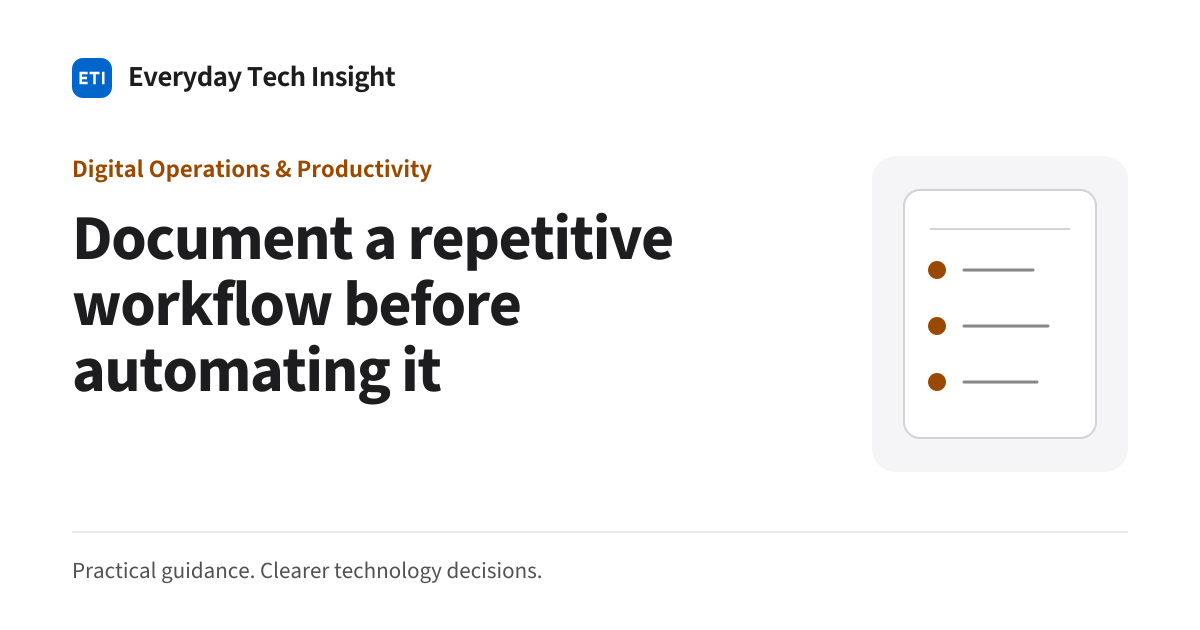
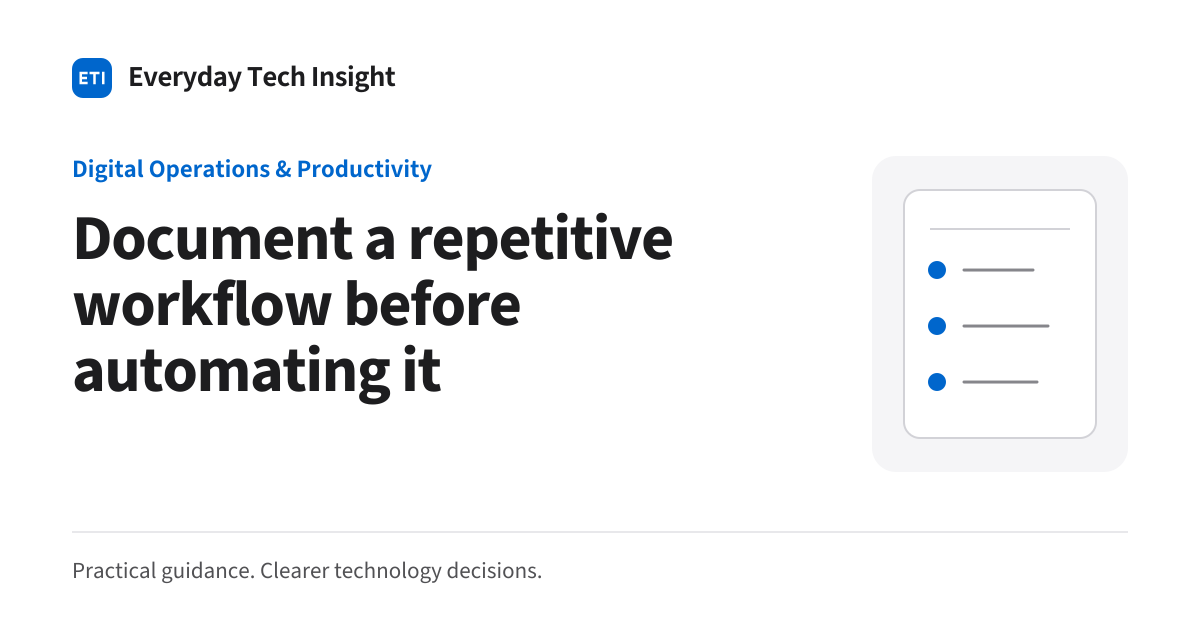
style: retire multicolor category and sharing palette

diff --git a/tests/unit/apple-palette.test.ts b/tests/unit/apple-palette.test.ts
@@ -1,0 +1,38 @@
+import { readFileSync } from "node:fs";
+import { join } from "node:path";
+
+import { describe, expect, it } from "vitest";
+
+import { SOCIAL_IMAGE_RECORDS } from "../../scripts/generate-social-images.mjs";
+import { categories, categoryAccents } from "../../src/data/categories";
+
+describe("Apple editorial palette parity", () => {
+  it("keeps all five named topics without retired category colors", () => {
+    expect(categories).toHaveLength(5);
+    expect(new Set(categories.map(({ slug }) => slug)).size).toBe(5);
+    expect(Object.values(categoryAccents)).toEqual(Array(5).fill("#0066cc"));
+    for (const category of categories) {
+      expect(category.accent).toBe("#0066cc");
+      expect(category.name.length).toBeGreaterThan(5);
+      expect(category.description.length).toBeGreaterThan(30);
+    }
+  });
+
+  it("uses the same blue family in every generated sharing preview", () => {
+    expect(SOCIAL_IMAGE_RECORDS.length).toBeGreaterThanOrEqual(6);
+    for (const record of SOCIAL_IMAGE_RECORDS) {
+      expect(record.accent, record.fileName).toBe("#0066cc");
+    }
+  });
+
+  it("removes retired decorative hues from the active token source", () => {
+    const css = readFileSync(
+      join(process.cwd(), "src/styles/global.css"),
+      "utf8",
+    );
+    expect(css).toMatch(/--brand-visited:\s*#004080;/);
+    for (const hue of ["#6e3cbc", "#216e4e", "#9a4a00", "#4141a5", "#663b80"]) {
+      expect(css.toLowerCase()).not.toContain(hue);
+    }
+  });
+});

diff --git a/src/styles/global.css b/src/styles/global.css
@@ -22,7 +22,7 @@
   --brand-violet-dark: #0055aa;
   --brand-violet-light: #9ac8ff;
   --brand-lavender: #d7eaff;
-  --brand-visited: #663b80;
+  --brand-visited: #004080;
   --brand-magenta: #0066cc;
   --brand-pink: #0066cc;
   --brand-rule-light: #d2d2d7;
@@ -35,11 +35,11 @@
   --brand-error: #b42318;
   --brand-success: #166534;
   --brand-accent: #0066cc;
-  --category-ai: #6e3cbc;
+  --category-ai: #0066cc;
   --category-software: #0066cc;
-  --category-security: #216e4e;
-  --category-operations: #9a4a00;
-  --category-strategy: #4141a5;
+  --category-security: #0066cc;
+  --category-operations: #0066cc;
+  --category-strategy: #0066cc;
   --color-ink: var(--brand-ink);
   --color-soft-ink: var(--brand-text-muted-light);
   --color-canvas: var(--brand-paper);

diff --git a/tests/unit/editorial.test.ts b/tests/unit/editorial.test.ts
@@ -182,11 +182,11 @@ describe("homepage Toolkit selection", () => {
 describe("category accents", () => {
   it("uses one exact accent registry for every category record", () => {
     expect(categoryAccents).toEqual({
-      "ai-automation": "#6e3cbc",
+      "ai-automation": "#0066cc",
       "business-software": "#0066cc",
-      "cybersecurity-data-protection": "#216e4e",
-      "digital-operations": "#9a4a00",
-      "technology-strategy": "#4141a5",
+      "cybersecurity-data-protection": "#0066cc",
+      "digital-operations": "#0066cc",
+      "technology-strategy": "#0066cc",
     } satisfies Record<CategorySlug, string>);
     expect(
       Object.fromEntries(categories.map(({ slug, accent }) => [slug, accent])),

diff --git a/src/data/categories.ts b/src/data/categories.ts
@@ -9,11 +9,11 @@ export const categorySlugs = [
 export type CategorySlug = (typeof categorySlugs)[number];
 
 export const categoryAccents = {
-  "ai-automation": "#6e3cbc",
+  "ai-automation": "#0066cc",
   "business-software": "#0066cc",
-  "cybersecurity-data-protection": "#216e4e",
-  "digital-operations": "#9a4a00",
-  "technology-strategy": "#4141a5",
+  "cybersecurity-data-protection": "#0066cc",
+  "digital-operations": "#0066cc",
+  "technology-strategy": "#0066cc",
 } as const satisfies Record<CategorySlug, string>;
 
 export interface CategoryRecord {

diff --git a/tests/unit/brand-system.test.ts b/tests/unit/brand-system.test.ts
@@ -40,11 +40,11 @@ const requiredTokens = {
 } as const;
 
 const requiredCategoryAccents = {
-  "ai-automation": "#6e3cbc",
+  "ai-automation": "#0066cc",
   "business-software": "#0066cc",
-  "cybersecurity-data-protection": "#216e4e",
-  "digital-operations": "#9a4a00",
-  "technology-strategy": "#4141a5",
+  "cybersecurity-data-protection": "#0066cc",
+  "digital-operations": "#0066cc",
+  "technology-strategy": "#0066cc",
 } as const;
 
 function channel(value: string): number {

diff --git a/README.md b/README.md
@@ -10,9 +10,9 @@ Implemented surfaces include the local `SignalField` on the homepage and 404, CS
 
 ## Current publication boundary
 
-The September 9, 2026 Editorial Clarity revision supersedes the August purple visual direction only. Light neutral surfaces, Source Sans 3 typography, restrained blue links, quieter navigation, generous spacing, and original decorative artwork establish the new identity. This is an independent publication design inspired by Apple's visual restraint, not an Apple clone or affiliation. The nine-guide homepage, informative article diagrams, owner-only publishing controls, and monetization-off state remain intact.
+The September 9, 2026 Apple editorial direction supersedes the remaining purple category accents, boxed introductions and narrow interface typography of the earlier Editorial Clarity revision. Native Apple-style sans typography, a neutral-blue palette, unboxed topic introductions, restrained controls and purposeful spacing define the current direction. The licensed local Source Sans font remains available for explanatory diagrams and deterministic social-image generation. This is an independent publication, not an Apple clone or affiliation. The nine-guide homepage, informative article diagrams, owner-only publishing controls, and monetization-off state remain intact.
 
-See the [design contract](docs/DESIGN_REDESIGN_2026-09-09.md), [artwork provenance](docs/EDITORIAL_ART_PROVENANCE_2026-09-09.md), and [current AdSense review](docs/ADSENSE_REVIEW_2026-09-09.md). Four articles received substantive clarity or worked-example updates. Fresh release checks and exact-SHA deployment evidence are required for this revision; the August observations below do not certify it.
+See the [current design contract](docs/superpowers/specs/2026-09-09-apple-editorial-direction-design.md), [artwork provenance](docs/EDITORIAL_ART_PROVENANCE_2026-09-09.md), and [current AdSense review](docs/ADSENSE_REVIEW_2026-09-09.md). Four articles received substantive clarity or worked-example updates in the earlier September release. Fresh release checks and exact-SHA deployment evidence are required for this revision; earlier observations do not certify it.
 
 - Public byline: `Everyday Tech Insight`, a publication name only.
 - Production canonical: `https://everyday-tech-insight.vercel.app/`.

diff --git a/DESIGN.md b/DESIGN.md
@@ -1,8 +1,8 @@
 # Everyday Tech Insight Design System
 
-## Current direction — Editorial Clarity, September 9, 2026
+## Current direction — Apple editorial, September 9, 2026
 
-The owner requested an Apple-inspired shift toward visual restraint. The current design contract is [Editorial Clarity](docs/DESIGN_REDESIGN_2026-09-09.md): white and light-gray surfaces, charcoal text, restrained blue controls, Source Sans 3 throughout, clear hierarchy, generous spacing, and original decorative concept art. This supersedes the palette, serif typography, dark chrome, and homepage decoration described below. It does not supersede accessibility, truthful content, owner-only publishing, or monetization safeguards. Apple trademarks and assets are not used.
+The owner explicitly requested removal of the remaining WEKA-like styling and a closer apple.com feel. The current [Apple editorial contract](docs/superpowers/specs/2026-09-09-apple-editorial-direction-design.md) uses native Apple-style sans typography, white and light-gray surfaces, charcoal text, blue-only category/action accents, unboxed topic introductions and restrained resource controls. It supersedes the narrow interface typography, colored motifs and repeated containers of the earlier [Editorial Clarity contract](docs/DESIGN_REDESIGN_2026-09-09.md), as well as the historical August styling below. Licensed Source Sans remains for diagram and generated-image metrics. Accessibility, truthful content, owner-only publishing and monetization safeguards are unchanged. Apple trademarks, imagery and proprietary web fonts are not copied.
 
 ## Historical August design contract
 
